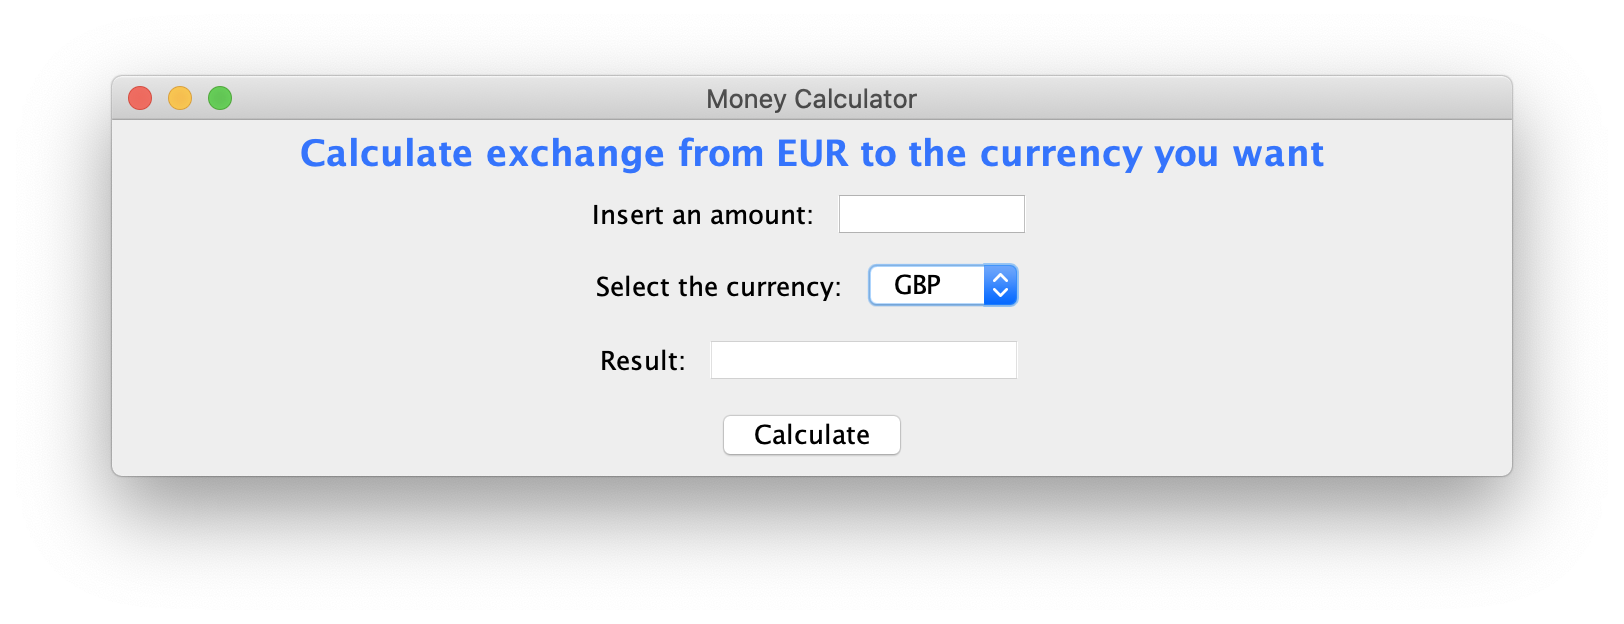
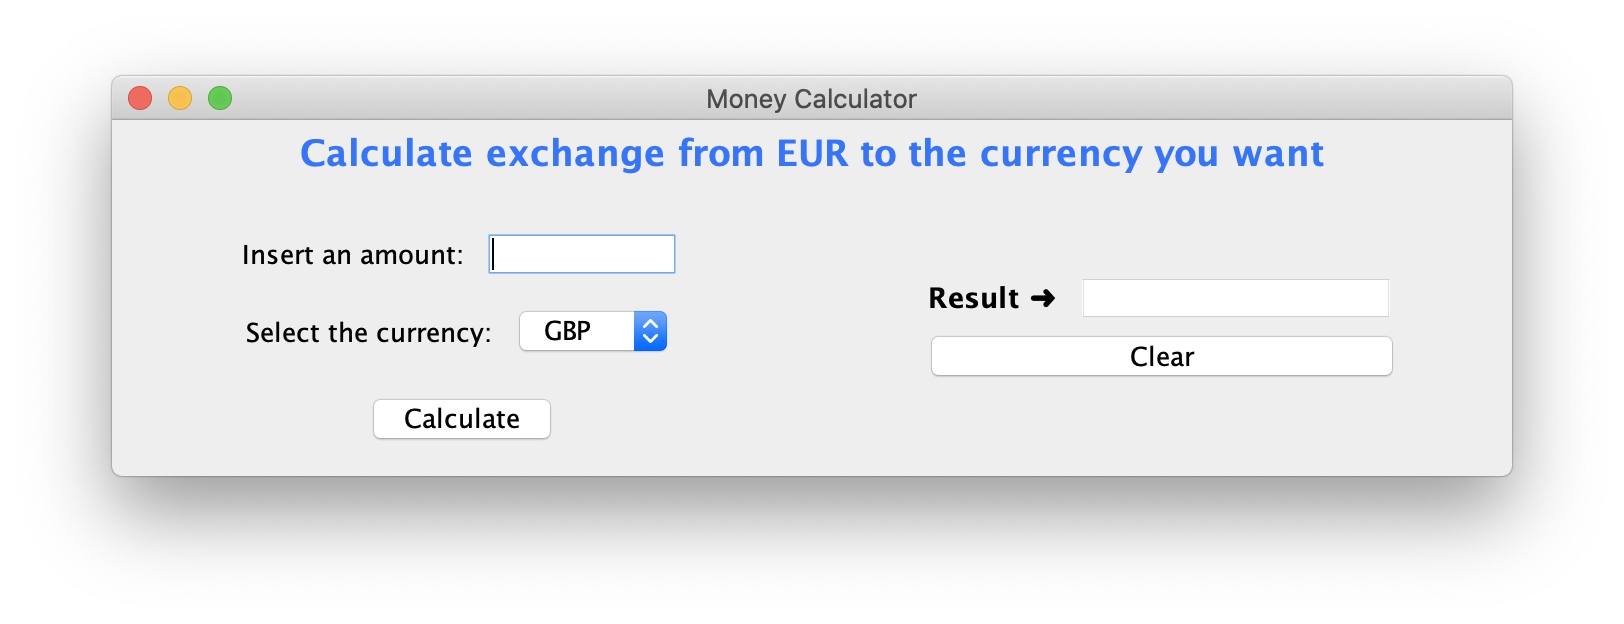
Version 3.0

diff --git a/src/moneycalculator/view/MoneyCalculatorView.java b/src/moneycalculator/view/MoneyCalculatorView.java
@@ -3,6 +3,7 @@ package moneycalculator.view;
 import moneycalculator.model.Currency;
 
 import javax.swing.*;
+import javax.swing.border.EmptyBorder;
 import java.awt.*;
 import java.util.LinkedHashMap;
 import java.util.List;
@@ -18,9 +19,6 @@ public class MoneyCalculatorView extends JFrame {
 
     public void initialize () {
 
-        setLocationRelativeTo(null);
-        setDefaultCloseOperation(JFrame.EXIT_ON_CLOSE);
-
         components.put("Title" , new JLabel("Calculate exchange from EUR to the currency you want"));
         components.get("Title").setFont(components.get("Title").getFont().deriveFont(1,18));
         Color color = Color.decode("#3574fc");
@@ -34,8 +32,10 @@ public class MoneyCalculatorView extends JFrame {
         components.put("SelectorTo", new JComboBox<Currency>());
 
         components.put("CalculateButton", new JButton("Calculate"));
+        components.put("ClearButton", new JButton("Clear"));
 
-        components.put("ResultLabel", new JLabel("Result: "));
+        components.put("ResultLabel", new JLabel("Result ➜ "));
+        components.get("ResultLabel").setFont(components.get("ResultLabel").getFont().deriveFont(1,14));
         components.put("Result", new JTextField());
         components.get("Result").setPreferredSize(new Dimension(160, 20));
         JTextField resultField = (JTextField)components.get("Result");
@@ -54,9 +54,13 @@ public class MoneyCalculatorView extends JFrame {
         JPanel panelMid2 = new JPanel();
         JPanel panelMid3 = new JPanel();
         JPanel panelBot = new JPanel();
+        JPanel panelBot1 = new JPanel();
+        JPanel panelBot2 = new JPanel();
+        JPanel content = new JPanel();
 
         panelTop.add(components.get("Title"));
         panelTop.setLayout(new FlowLayout());
+        panelTop.setBorder(new EmptyBorder(0, 0, 20, 0));
 
         panelMid1.add(components.get("AmountLabel"));
         panelMid1.add(components.get("Amount"));
@@ -66,8 +70,7 @@ public class MoneyCalculatorView extends JFrame {
         panelMid2.add(components.get("SelectorTo"));
         panelMid2.setLayout(new FlowLayout());
 
-        panelMid3.add(components.get("ResultLabel"));
-        panelMid3.add(components.get("Result"));
+        panelMid3.add(components.get("CalculateButton"));
         panelMid3.setLayout(new FlowLayout());
 
         panelMid.add(panelMid1);
@@ -75,12 +78,23 @@ public class MoneyCalculatorView extends JFrame {
         panelMid.add(panelMid3);
         panelMid.setLayout(new BoxLayout(panelMid, BoxLayout.Y_AXIS));
 
-        panelBot.add(components.get("CalculateButton"));
+        panelBot1.add(components.get("ResultLabel"));
+        panelBot1.add(components.get("Result"));
+        panelBot1.setLayout(new FlowLayout());
+
+        panelBot2.add(panelBot1);
+        panelBot2.add(components.get("ClearButton"));
+        panelBot2.setLayout(new GridLayout(2, 1));
+        panelBot.add(panelBot2);
         panelBot.setLayout(new FlowLayout());
+        panelBot.setBorder(new EmptyBorder(17, 0, 0, 0));
+
+        content.add(panelMid);
+        content.add(panelBot);
+        content.setLayout(new GridLayout(1, 2));
 
         this.add(panelTop, BorderLayout.NORTH);
-        this.add(panelMid, BorderLayout.CENTER);
-        this.add(panelBot, BorderLayout.SOUTH);
+        this.add(content, BorderLayout.CENTER);
 
 
         setSize(700, 200);

diff --git a/src/moneycalculator/controller/Controller.java b/src/moneycalculator/controller/Controller.java
@@ -24,18 +24,26 @@ public class Controller {
         loader = new RESTExchangeRateLoader();
         frame.setCurrencySet(new CurrencyList().getList());
         frame.initialize();
-        JButton button = (JButton)frame.getMyComponents().get("CalculateButton");
+        JButton buttonCalculate = (JButton)frame.getMyComponents().get("CalculateButton");
+        JButton buttonClear = (JButton)frame.getMyComponents().get("ClearButton");
         JComboBox toCurrency = (JComboBox)frame.getMyComponents().get("SelectorTo");
         JTextField amountField = (JTextField)frame.getMyComponents().get("Amount");
         JTextField resultArea = (JTextField)frame.getMyComponents().get("Result");
 
-        button.addActionListener(new ActionListener() {
+        buttonCalculate.addActionListener(new ActionListener() {
             @Override
             public void actionPerformed(ActionEvent actionEvent) {
                 ExchangeRate er = loader.load((Currency)toCurrency.getSelectedItem());
                 Double amount = Double.parseDouble(amountField.getText());
                 Double result = amount * er.getRate();
                 resultArea.setText(result.toString());
+            }
+        });
+        buttonClear.addActionListener(new ActionListener() {
+            @Override
+            public void actionPerformed(ActionEvent actionEvent) {
+                amountField.setText("");
+                resultArea.setText("");
             }
         });
     }

diff --git a/src/moneycalculator/model/CurrencyList.java b/src/moneycalculator/model/CurrencyList.java
@@ -12,8 +12,10 @@ public final class CurrencyList {
         add(new Currency("GBP", "Libra esterlina", "£"));
         add(new Currency("PLN", "Zloty polaco", "zł"));
         add(new Currency("USD", "Dolar americano", "$"));
-        add(new Currency("CAD", "Dolar canadiense", "$"));
+        add(new Currency("CAD", "Dolar canadiense", "CA$"));
         add(new Currency("HKD", "Dolar de Hong Kong", "HK$"));
+        add(new Currency("AUD", "Dolar australiano", "A$"));
+        add(new Currency("KRW", "Won surcoreano", "₩"));
     }
 
     private void add(Currency currency) {

diff --git a/README.md b/README.md
@@ -7,6 +7,8 @@ Currencies available:
 * USD
 * CAD
 * HKD
+* AUD
+* KRW
 
 ## Screenshots 📸
 ### Initial view:
